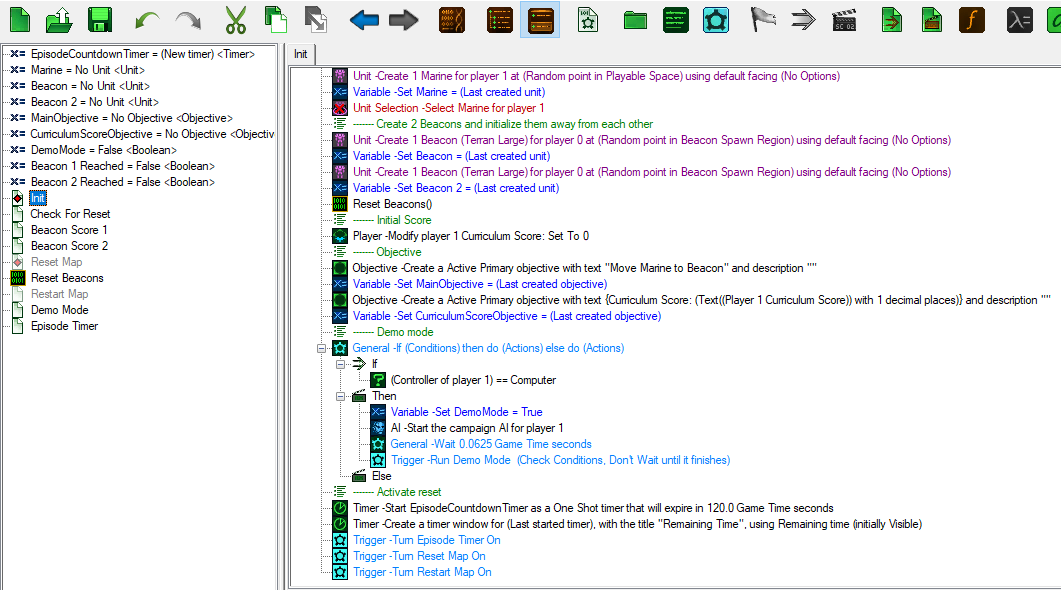
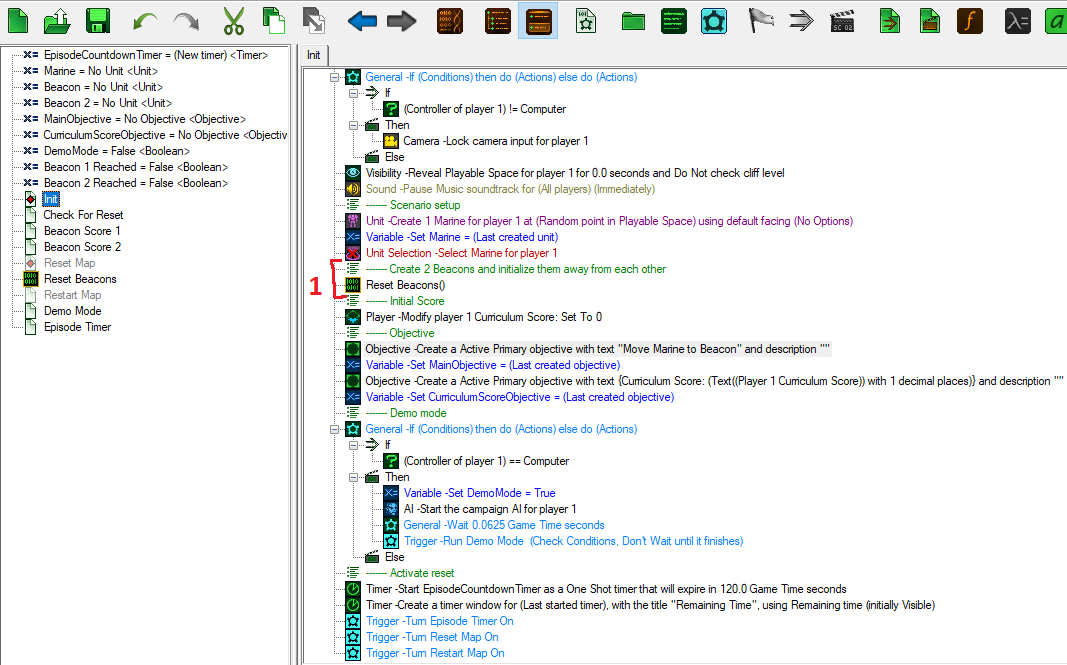
Update Tutorial with new Triggers section

Changed region(s): [[0.0, 0.0, 1.0, 1.0]]

diff --git a/README.md b/README.md
@@ -37,17 +37,47 @@ The Galaxy Editor should come already installed when you downloaded the game so 
 What you are seeing is the `Terrain Module`, which allows you to place Units, Regions, Doodads, Cameras etc. as well as modifying the Terrain itself. For our purposes, we only need to worry about `Regions`.
 
 1. Click this to bring up the `Region` view.
-2. Here we can add new regions or modify existing ones. Since we need two beacons for this Minigame, simply copy the existing `Beacon Area`.
+2. Here we can add new regions or modify existing ones. Since we need two beacons for this Minigame, click the Circle region selector and drag it onto the screen. This will create another region which you can name `Beacon Area 2`. Copy the values from `Beacon Area` to make sure they match.
 
 I've noticed that the region size of `Beacon Area` is actually smaller than the visual size of the beacon when placed, which has an effect on the agent's outcome. I recommend changing the `Beacon Area` size from 2.50 -> 3.0
 
 ---
 
-That's all we need from the Terrain Module. Next, we want to work on this Minigame's `Triggers`. Triggers allow us to modify the game state whenever a certain event happens. This event can be almost anything that occurs in StarCraft II - from an amount of time elapsing to a certain Unit using an ability. There is plenty of user-made documentation on triggers and if you get lost going forward, check out [Sc2Mapster Tutorials](https://sc2mapster.gamepedia.com/Tutorials).
+That's all we need from the Terrain Module. Next, we want to work on this Minigame's `Triggers`. Triggers allow us to modify the game state whenever a certain event happens. This event can be almost anything that occurs in StarCraft II - from an amount of time elapsing to a certain Unit using an ability. There is plenty of user-made documentation on triggers and if you get lost going forward, check out [SC2Mapster Tutorials](https://sc2mapster.gamepedia.com/Tutorials).
 
 To start working with triggers, open up the `Trigger Module` shown at #3 above. You will see this:
 
 ![](https://github.com/codetroopa/pysc2_more_minigames/raw/master/screenshots/MoveTwoBeacons/triggers_old.png "Trigger Module")
+
+The left-side panel displays a list of defined triggers and variables used to manipulate the game state. Most of the work is done for us, but we will have to make a few tweaks.
+
+First off, we need to define a few variables (right click the panel and select New->New Variable):
+- Copy `Beacon` so that we have a reference to our second beacon unit.
+- Create **Boolean** variables named "Beacon 1 Reached" and "Beacon 2 Reached" respectively. We will need these to determine when it's safe to reset our beacon locations.
+
+There are a few places where we want to reset the location of our beacons, so it makes sense to create a custom Action. Instead of copying the logic out multiple times, we can group it under a single Action and call that Action where we need it.
+
+To define a new Action, right click the left-side panel and select New->New Action Definition. Here's what we want it to do:
+
+![](https://github.com/codetroopa/pysc2_more_minigames/raw/master/screenshots/MoveTwoBeacons/triggers_reset_beacons_action.png "Reset Beacons Action")
+
+1. Destroy the current references to `Beacon` and `Beacon 2`. Then, create new beacons at a random point in `Beacon Spawn Region` that our variables point to.
+2. In a while loop, move the beacon to a new random point in the region until our conditions are satisfied. We want to ensure that
+    -  The new beacon isn't trivially close to our Marine.
+    -  The distance between the two beacons is non-trivial.
+    -  Once those are satisfied, we move the actual `Beacon Area` region to the new location.
+3. Same as above, but for `Beacon 2` and `Beacon Area 2`.
+4. Reset our variables used to track when beacons have been reached.
+
+We have ourselves a handy custom Action, but haven't used it yet. Next, let's modify our Init trigger. This trigger is called once at the beginning of the game and sets up some required properties.
+
+![](https://github.com/codetroopa/pysc2_more_minigames/raw/master/screenshots/MoveTwoBeacons/triggers_init.png "Init Trigger")
+
+1. All we need to do here is remove the old set of actions that initialized the beacon and replace it with our newly created `Reset Beacons` custom Action.
+
+
+   
+
 
 ---
 
